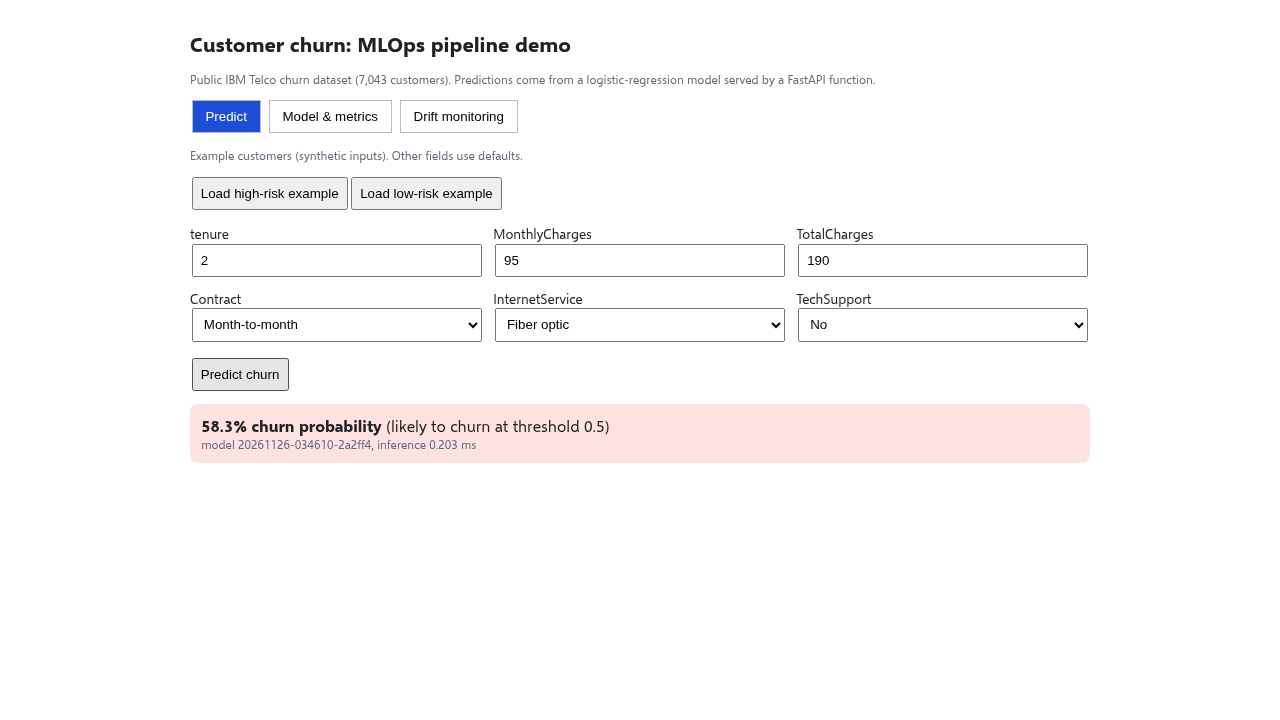
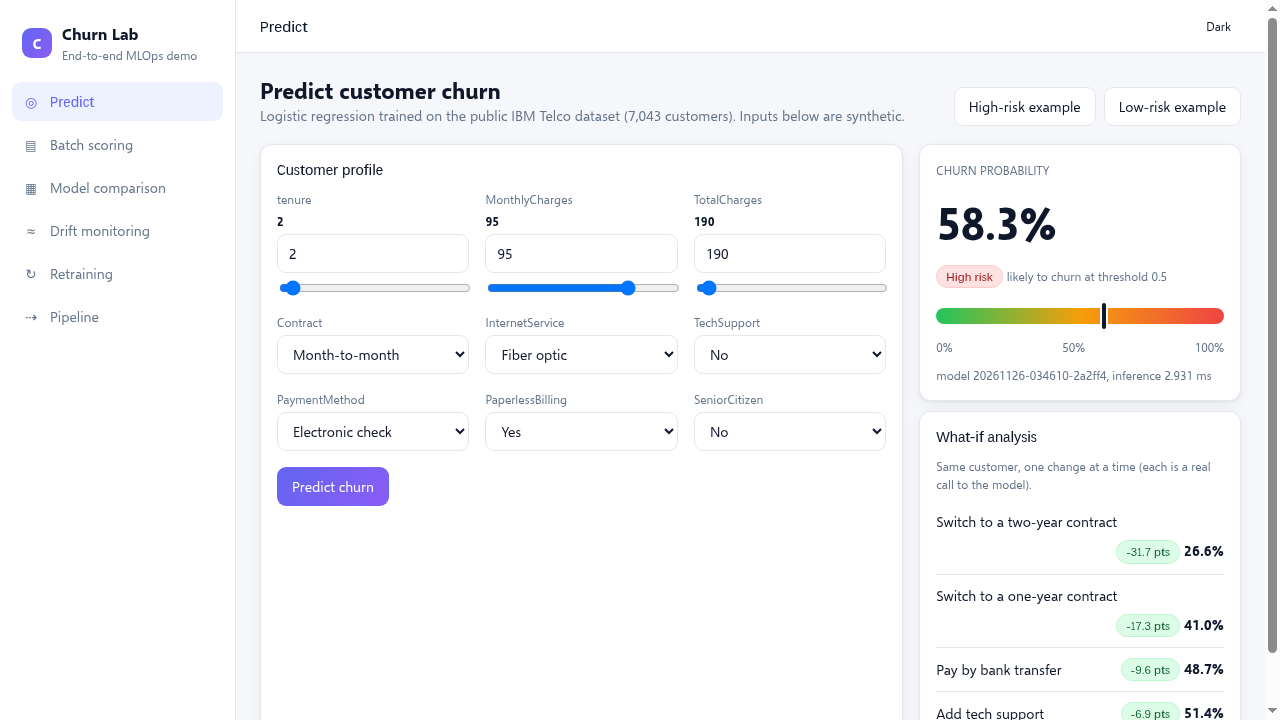
docs: update README and screenshots for the v3 UI

diff --git a/README.md b/README.md
@@ -5,8 +5,10 @@ End-to-end churn pipeline on the public IBM Telco Customer Churn dataset (7,043 
 **Live demo (free tier):** https://churn-web-ochre.vercel.app  (Predict, Model & metrics, Drift monitoring tabs)
 API docs: https://churn-api-iota.vercel.app/docs
 
-![prediction](docs/screenshot-predict.png)
-![drift monitoring](docs/screenshot-drift.png)
+![prediction with what-if analysis](docs/screenshot-predict.png)
+![model comparison](docs/screenshot-models.png)
+
+Pages: Predict (what-if analysis, each variant is a real API call), Batch scoring (CSV paste), Model comparison, Drift monitoring, Retraining, Pipeline.
 
 ## Pipeline
 ```
